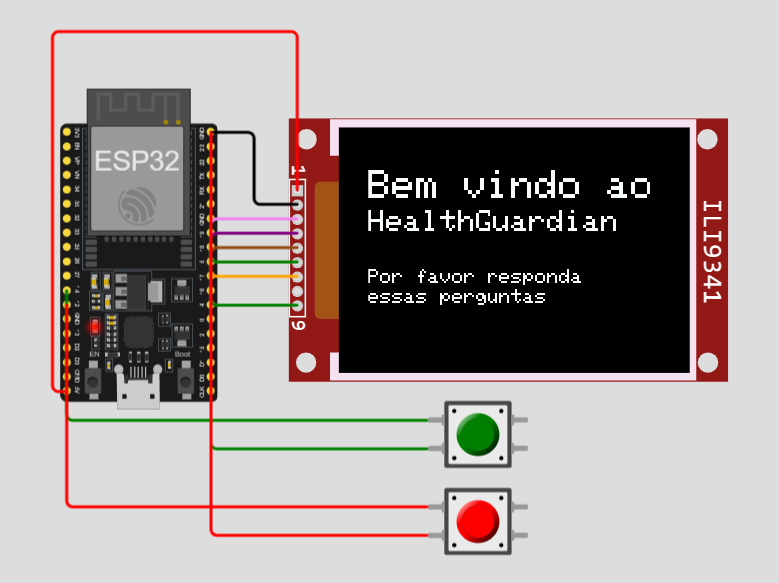
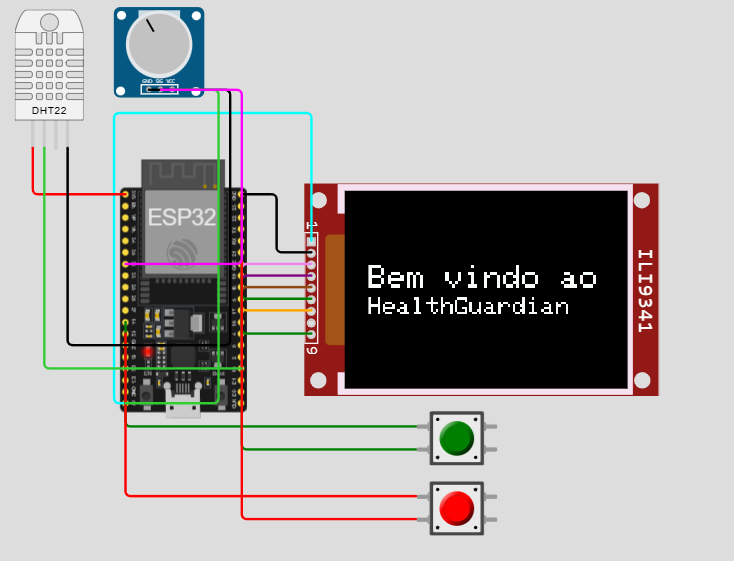
Código Final + Imagem

diff --git a/README.md b/README.md
@@ -41,21 +41,25 @@ O Health Guardian é um sistema de monitoramento pós-hospitalar, que permite ao
 - Microcontrolador ESP32
 - Display TFT Touchscreen (Adafruit ILI9341)
 - Módulo Wi-Fi para conectividade à Internet
+- Sensor de temperatura DHT22
+- Potenciômetro para simulação de pressão arterial
 
 ## Configuração do Hardware
 1. Conecte o display TFT ao ESP32 conforme as definições nos pinos (TFT_DC e TFT_CS).
 2. Conecte os botões físicos aos pinos BTN_PIN_01 e BTN_PIN_02.
-3. Alimente o ESP32 e o display.
+3. Conecte o sensor de temperatura DHT22 ao pino DHT_PIN.
+4. Conecte o potenciômetro ao pino POTENTIOMETER_PIN.
+5. Alimente o ESP32, o display, e o sensor de temperatura.
 
 ## Configuração do Software
 1. Configure as credenciais Wi-Fi (SSID e senha) no código.
-2. Certifique-se de ter as bibliotecas necessárias instaladas (WiFi, HTTPClient, Adafruit_GFX, Adafruit_ILI9341).
+2. Certifique-se de ter as bibliotecas necessárias instaladas (WiFi, HTTPClient, Adafruit_GFX, Adafruit_ILI9341, DHTesp).
 3. Carregue o código no ESP32.
 
 ## Uso
-1. O sistema exibirá uma mensagem de boas-vindas no início.
+1. O sistema exibirá uma mensagem de boas-vindas no início, seguida pela temperatura do paciente e sua pressão arterial simulada.
 2. Responda às perguntas sobre seus sintomas pressionando os botões "Sim" ou "Não".
-3. As respostas serão enviadas para um servidor remoto.
+3. As respostas, juntamente com a temperatura e pressão arterial, serão enviadas para um servidor remoto.
 4. Com base nas respostas, o sistema fornecerá orientações para os usuários.
 
 ## Integração com o Firebase (Banco de dados)
